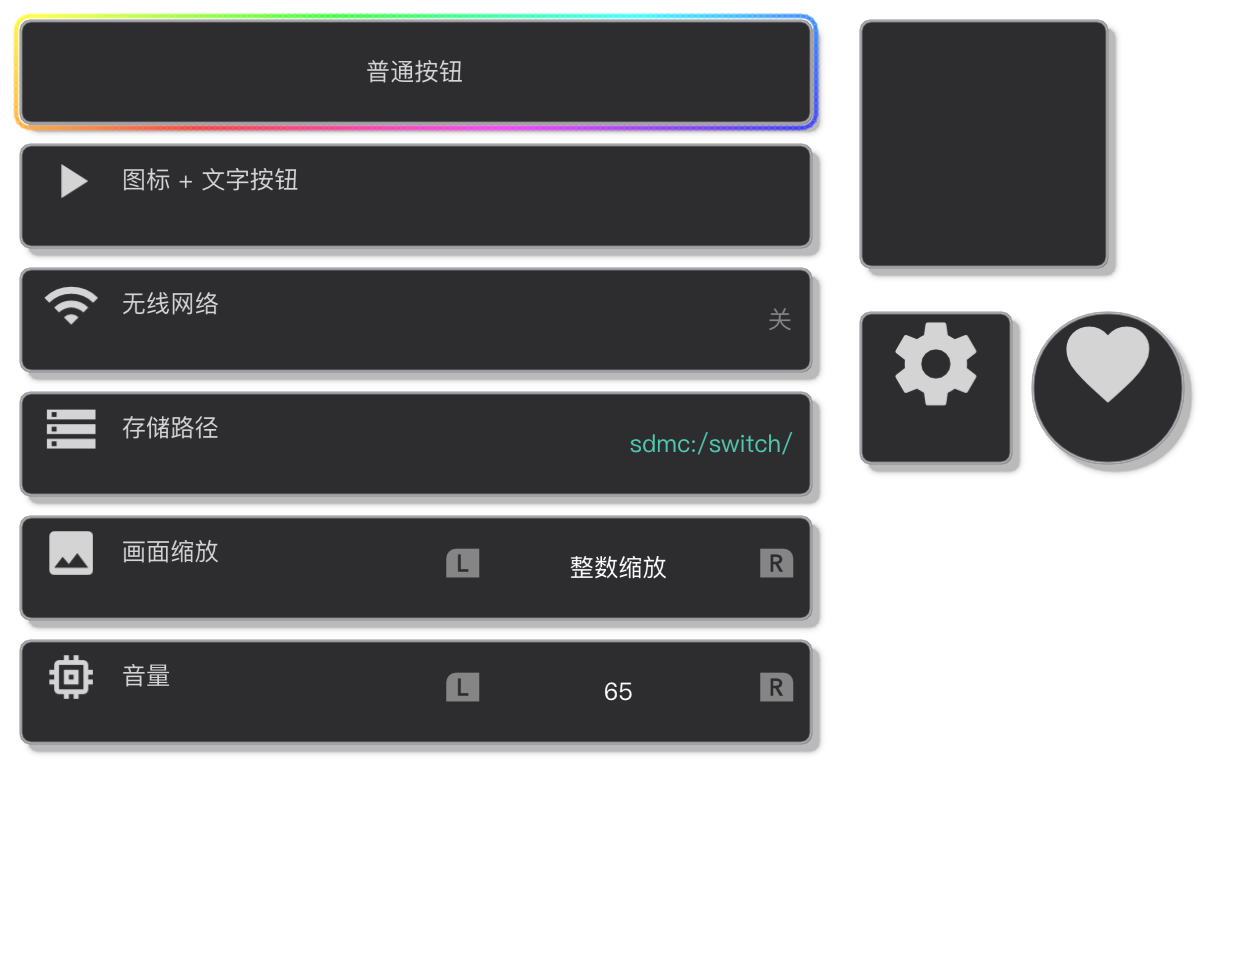
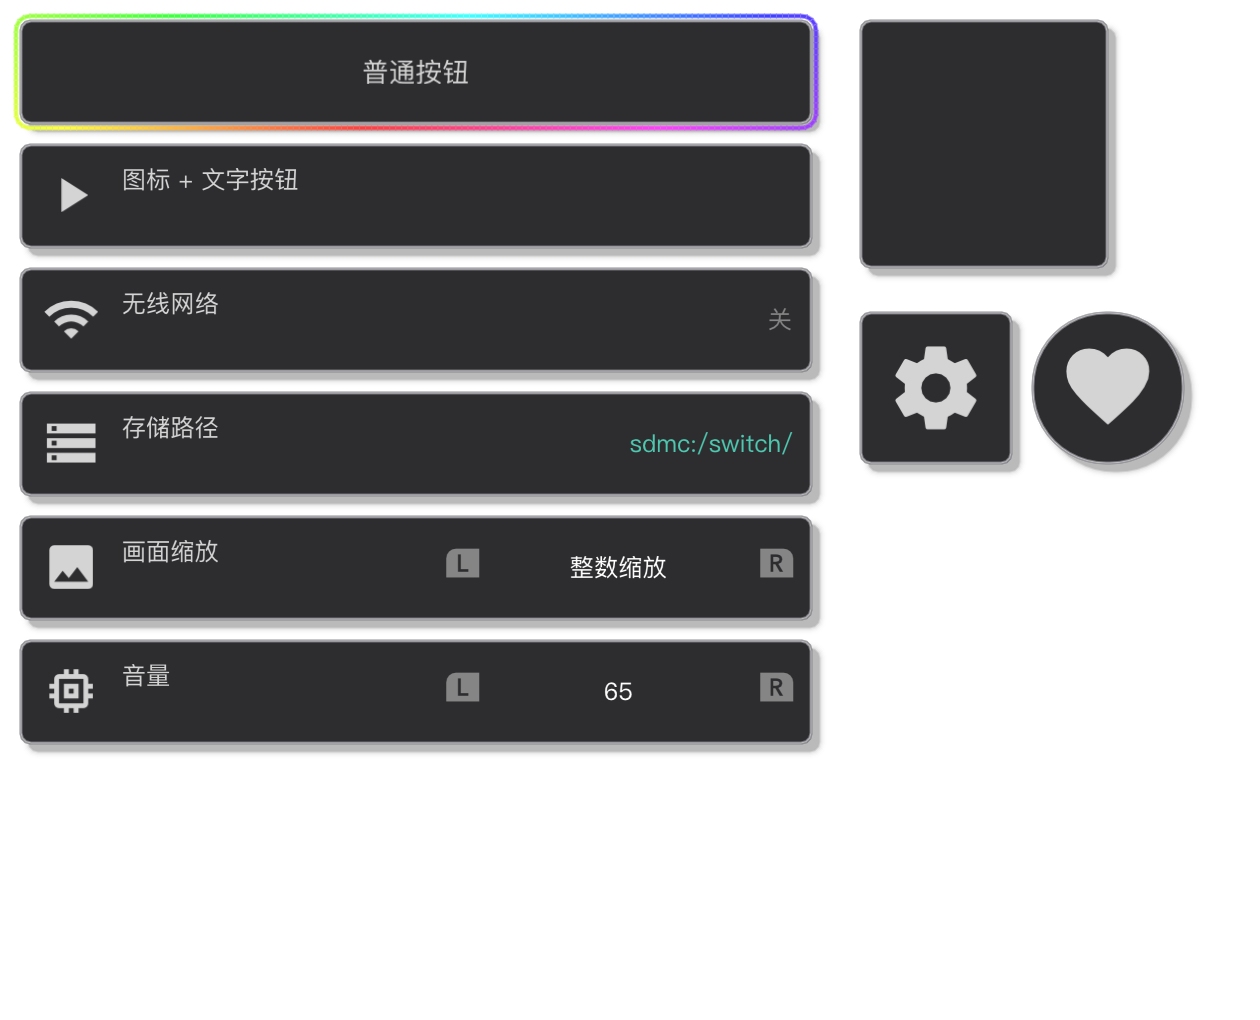
Button 第三轮调整：图标按墨迹居中 / 图标按钮说明行画在外部 / 聚焦放大 1.1 倍
1. 图标居中：行盒下方带 descender 空白，按行盒居中图标看起来偏上。新增
   Draw::GlyphInkExtent()（取字形 Y0/Y1 墨迹上下边界，按 imgui 的 size/baked->Size 缩放），
   图标改成按「看得见的形状」在格子里垂直居中；水平仍然居中。
   实测：无线网络图标墨迹中心 169.5 vs 按钮中心 170（原来偏上约 5px）。
2. IconButton 的说明行不再画在按钮里，改画在按钮外面（CaptionOutside()）：
   默认在按钮下方（caption_gap，默认 4px），下方空间不足就等距放到上方，上下都不够就不显示。
   可用空间 = 画布 ∩ 父节点（CaptionLimit()）。
   实测：按钮在 y=166 时说明行在 245~256.5（按钮底 242 + 4px）；把按钮放到 y=640 时
   说明行在 625.5~636（上方等距）；把 caption_gap 设成 600 时上下都不显示。
3. 所有按钮聚焦时图标和文字（主文字 + 说明行）放大 1.1 倍，跟 focus_mix 平滑过渡
   （ContentScale()）。LR 选择器里的 L/R 图标保持原尺寸，只有间隔里的文字/数字放大，避免整行抖动。
   实测：数值 65 的墨迹 13.0→14.5、图标 21.5→23.5，垂直居中不变（cy 355.2→355.8）。

验证：mac Debug/Release + Switch 均编译通过；ctest 全绿；6 个 demo 退出码 0；快照已更新
（docs/buttons-demo{,-compact}.png，可以看到图标落在按钮中线上、图标按钮的说明行在按钮外面）。

Changed region(s): [[0.0, 0.0, 0.65, 0.7653], [0.681, 0.2449, 0.9595, 0.4898], [0.681, 0.0, 0.8667, 0.0306]]

diff --git a/component_view/components/Button.cpp b/component_view/components/Button.cpp
@@ -156,11 +156,20 @@ bool Button::SubtitleAllowed() const {
     return true;
 }
 
+bool Button::CaptionOutside() const {
+    return false;
+}
+
+float Button::ContentScale() const {
+    // 聚焦时放大 1.1 倍，跟着焦点动画平滑过渡
+    return 1.0f + 0.1f * Clampf(focus_mix, 0.0f, 1.0f);
+}
+
 Button::LeftBlock Button::computeLeftBlock(const Rect& content) const {
     LeftBlock block;
     const bool show_sub = SubtitleVisible();
-    const float main_size = mainFontSize();
-    const float sub_size = subFontSize();
+    const float main_size = MainSize();
+    const float sub_size = SubSize();
     const ImVec2 main_extent = Draw::MeasureText(nullptr, main_size, text.c_str(), 0.0f);
     const ImVec2 sub_extent =
         show_sub ? Draw::MeasureText(nullptr, sub_size, subtitle.c_str(), 0.0f) : ImVec2(0.0f, 0.0f);
@@ -170,19 +179,18 @@ Button::LeftBlock Button::computeLeftBlock(const Rect& content) const {
     const float gap = (icon.empty() || text.empty()) ? 0.0f : icon_gap;
 
     if (text.empty() && !icon.empty()) {
-        // 纯图标：图标在上、说明行在下方居中（竖排）。给说明行留出位置，图标格相应缩小
+        // 纯图标：图标在按钮里居中；说明行（如果有）是画在外面的，不占这里的位置
         const float text_w = show_sub ? sub_extent.x : 0.0f;
         const float text_h = show_sub ? sub_extent.y : 0.0f;
-        const float cell_v = Maxf(4.0f, content.Height() - (show_sub ? text_h + 2.0f : 0.0f));
-        block.vertical = true;
-        block.width = Maxf(cell_v, text_w);
-        const float total_h = cell_v + (show_sub ? text_h + 2.0f : 0.0f);
+        block.vertical = !show_sub;
+        block.width = Maxf(cell, text_w);
+        const float total_h = cell + (show_sub ? text_h + 2.0f : 0.0f);
         const float block_x = (text_align == TextAlign::Center) ? content.Center().x - block.width * 0.5f
                                                                : content.min.x;
         const float block_y = content.Center().y - total_h * 0.5f;
-        block.icon = Rect::FromPosSize(ImVec2(block_x + (block.width - cell_v) * 0.5f, block_y),
-                                      ImVec2(cell_v, cell_v));
-        block.text = Rect::FromPosSize(ImVec2(block_x + (block.width - text_w) * 0.5f, block_y + cell_v + 2.0f),
+        block.icon = Rect::FromPosSize(ImVec2(block_x + (block.width - cell) * 0.5f, block_y),
+                                      ImVec2(cell, cell));
+        block.text = Rect::FromPosSize(ImVec2(block_x + (block.width - text_w) * 0.5f, block_y + cell + 2.0f),
                                       ImVec2(text_w, text_h));
         return block;
     }
@@ -202,16 +210,22 @@ Button::LeftBlock Button::computeLeftBlock(const Rect& content) const {
 }
 
 void Button::drawLeftBlock(ImDrawList* dl, const LeftBlock& block) const {
-    const float main_size = mainFontSize();
-    const float sub_size = subFontSize();
+    const float main_size = MainSize();
+    const float sub_size = SubSize();
     const bool show_sub = SubtitleVisible();
 
     if (!icon.empty() && block.icon.Width() > 0.0f) {
-        const float glyph_size = block.icon.Height() * 0.86f;
+        // 图标大小跟着格子走（额外 0.86 让四周留白看起来均匀），聚焦时再放大 1.1 倍
+        const float glyph_size = block.icon.Height() * 0.86f * ContentScale();
         const ImVec2 extent = Draw::MeasureText(nullptr, glyph_size, icon.c_str(), 0.0f);
-        // 格内水平 + 垂直居中
-        Draw::Text(dl, nullptr, glyph_size,
-                   ImVec2(block.icon.Center().x - extent.x * 0.5f, block.icon.Center().y - extent.y * 0.5f),
+        // 格内水平居中；垂直按「墨迹」居中：行盒下方有 descender 空白，按行盒居中看起来会偏上
+        float y = block.icon.Center().y - extent.y * 0.5f;
+        float ink_top = 0.0f;
+        float ink_bottom = 0.0f;
+        if (Draw::GlyphInkExtent(nullptr, glyph_size, icon.c_str(), ink_top, ink_bottom)) {
+            y = block.icon.Center().y - (ink_top + ink_bottom) * 0.5f;
+        }
+        Draw::Text(dl, nullptr, glyph_size, ImVec2(block.icon.Center().x - extent.x * 0.5f, y),
                    Theme::U32(text_color), icon.c_str());
     }
     if (text.empty() && !show_sub) {
@@ -256,7 +270,8 @@ float Button::lrKeysWidth() const {
 }
 
 void Button::drawLrRow(ImDrawList* dl, const Rect& right_rect, const char* content, ImU32 content_color) const {
-    const float size = mainFontSize();
+    const float size = mainFontSize();       // L/R 图标保持原尺寸，聚焦放大时不会让整行抖动
+    const float content_size = MainSize();   // 间隔里的文字/数字跟着聚焦放大
     const ImVec2 left_extent = Draw::MeasureText(nullptr, size, kLeftKeyGlyph, 0.0f);
     const ImVec2 right_extent = Draw::MeasureText(nullptr, size, kRightKeyGlyph, 0.0f);
     const float total = left_extent.x + kLrGap + ResolvedSlotWidth() + kLrGap + right_extent.x;
@@ -266,7 +281,7 @@ void Button::drawLrRow(ImDrawList* dl, const Rect& right_rect, const char* conte
                kLeftKeyGlyph);
     const Rect slot = Rect::FromPosSize(ImVec2(x + left_extent.x + kLrGap, right_rect.min.y),
                                        ImVec2(ResolvedSlotWidth(), right_rect.Height()));
-    Draw::MarqueeText(dl, nullptr, size, slot, content_color, content, Global::time,
+    Draw::MarqueeText(dl, nullptr, content_size, slot, content_color, content, Global::time,
                       Global::component_style.marquee_speed);
     const float right_x = x + left_extent.x + kLrGap + ResolvedSlotWidth() + kLrGap;
     Draw::Text(dl, nullptr, size, ImVec2(right_x, center_y - right_extent.y * 0.5f), Theme::U32(Theme::kTextMuted),
@@ -277,7 +292,7 @@ ImVec2 Button::MeasureContent(const ImVec2& available) {
     (void)available;
     const Button* self = this;
     LeftBlock block = self->computeLeftBlock(Rect::FromPosSize(ImVec2(0.0f, 0.0f), ImVec2(0.0f, Theme::kControlHeight)));
-    const float height = Maxf(Theme::kControlHeight, subFontSize() + mainFontSize() + 8.0f);
+    const float height = Maxf(Theme::kControlHeight, SubSize() + MainSize() + 8.0f);
     const float width = block.width + (rightSideWidth() > 0.0f ? rightSideWidth() + 16.0f : 0.0f);
     return ImVec2(Maxf(width, 120.0f), height);
 }
@@ -381,6 +396,47 @@ ImVec2 IconButton::MeasureContent(const ImVec2& available) {
     return ImVec2(inner, inner);
 }
 
+// 说明行能落在哪块区域里：画布 ∩ 父节点（没有父节点就用画布）
+Rect IconButton::CaptionLimit() const {
+    Rect limit = Global::CanvasRect();
+    if (parent != nullptr) {
+        const Rect& outer = parent->rect;
+        limit.min.x = Maxf(limit.min.x, outer.min.x);
+        limit.min.y = Maxf(limit.min.y, outer.min.y);
+        limit.max.x = Minf(limit.max.x, outer.max.x);
+        limit.max.y = Minf(limit.max.y, outer.max.y);
+    }
+    return limit;
+}
+
+// 说明行画在按钮外面：默认在下面；下面空间不够就等距放到上面；上下都不够就不画
+void IconButton::drawCaption(ImDrawList* dl) const {
+    if (!show_subtitle || subtitle.empty()) {
+        return;
+    }
+    const float size = SubSize();
+    const ImVec2 extent = Draw::MeasureText(nullptr, size, subtitle.c_str(), 0.0f);
+    const Rect limit = CaptionLimit();
+    const Rect self = DrawRect();
+    const float below = limit.max.y - self.max.y;
+    const float above = self.min.y - limit.min.y;
+    float y = 0.0f;
+    if (below >= extent.y + caption_gap) {
+        y = self.max.y + caption_gap;
+    } else if (above >= extent.y + caption_gap) {
+        y = self.min.y - caption_gap - extent.y;
+    } else {
+        return; // 上下都放不下：不显示提示文字
+    }
+    Draw::Text(dl, nullptr, size, ImVec2(self.Center().x - extent.x * 0.5f, y), Theme::U32(subtitle_color),
+               subtitle.c_str());
+}
+
+void IconButton::OnDrawOverlay(ImDrawList* dl, const Rect& content) {
+    Button::OnDrawOverlay(dl, content); // 流光聚焦框
+    drawCaption(dl);
+}
+
 // --------------------------------------------------------------- 4 开关 ----
 
 ToggleButton::ToggleButton() {
@@ -407,12 +463,12 @@ ToggleButton& ToggleButton::setChecked(bool value, bool notify) {
 
 float ToggleButton::rightSideWidth() const {
     const char* label = checked ? on_text.c_str() : off_text.c_str();
-    return Draw::MeasureText(nullptr, mainFontSize(), label, 0.0f).x;
+    return Draw::MeasureText(nullptr, MainSize(), label, 0.0f).x;
 }
 
 void ToggleButton::drawRightSide(ImDrawList* dl, const Rect& right_rect) {
     const char* label = checked ? on_text.c_str() : off_text.c_str();
-    const float size = mainFontSize();
+    const float size = MainSize();
     const ImVec2 extent = Draw::MeasureText(nullptr, size, label, 0.0f);
     Draw::Text(dl, nullptr, size,
                ImVec2(right_rect.max.x - extent.x, right_rect.Center().y - extent.y * 0.5f),
@@ -450,11 +506,11 @@ CustomButton& CustomButton::setRightText(std::string value, ImVec4 color) {
 }
 
 float CustomButton::rightSideWidth() const {
-    return Draw::MeasureText(nullptr, mainFontSize(), right_text.c_str(), 0.0f).x;
+    return Draw::MeasureText(nullptr, MainSize(), right_text.c_str(), 0.0f).x;
 }
 
 void CustomButton::drawRightSide(ImDrawList* dl, const Rect& right_rect) {
-    const float size = mainFontSize();
+    const float size = MainSize();
     const ImVec2 extent = Draw::MeasureText(nullptr, size, right_text.c_str(), 0.0f);
     Draw::Text(dl, nullptr, size,
                ImVec2(right_rect.max.x - extent.x, right_rect.Center().y - extent.y * 0.5f), Theme::U32(right_color),

diff --git a/component_view/components/Button.h b/component_view/components/Button.h
@@ -100,11 +100,16 @@ protected:
 
     float mainFontSize() const { return font_size > 0.0f ? font_size : Theme::kFontBody; }
     float subFontSize() const { return subtitle_size > 0.0f ? subtitle_size : Theme::kFontSmall; }
+    // 聚焦时图标和文字（主文字 + 说明行）放大 1.1 倍，跟 focus_mix 平滑过渡
+    float ContentScale() const;
+    float MainSize() const { return mainFontSize() * ContentScale(); }
+    float SubSize() const { return subFontSize() * ContentScale(); }
     float ResolvedFocusMargin() const;
     float ResolvedFocusWidth() const;
     float ResolvedSlotWidth() const;                  // LR 选择器中间那一格的宽度
     virtual bool SubtitleAllowed() const;             // TextButton 返回 false（不带说明行）
-    bool SubtitleVisible() const { return show_subtitle && SubtitleAllowed(); }
+    virtual bool CaptionOutside() const;              // IconButton：说明行画在控件外面
+    bool SubtitleVisible() const { return show_subtitle && SubtitleAllowed() && !CaptionOutside(); }
 
     // 左侧「图标 + 文字」块：
     //   有主文字 = 图标（正方形格，格内水平+垂直居中）+ 文字紧跟其右
@@ -142,6 +147,7 @@ public:
 
 // ------------------------------------------------------------------ 3 纯图标 --
 // 只有两种形态：圆角正方形 / 圆形。边长用 setSide()（默认 52，按 720p 手持尺寸）。
+// 说明行不在按钮里画，而是画在按钮外面：默认在下面，下面空间不够就等距放到上面，都不够就不画。
 class IconButton : public Button {
 public:
     IconButton();
@@ -149,12 +155,17 @@ public:
 
     IconButtonShape shape = IconButtonShape::RoundedSquare;
     float side = 52.0f;
+    float caption_gap = 4.0f; // 说明行与按钮之间的间距
 
     IconButton& setShape(IconButtonShape value);
     IconButton& setSide(float value); // 正方形/圆形的边长
 
 protected:
     ImVec2 MeasureContent(const ImVec2& available) override;
+    void OnDrawOverlay(ImDrawList* dl, const Rect& content) override;
+    bool CaptionOutside() const override { return true; }
+    Rect CaptionLimit() const;      // 可用空间：画布 ∩ 父节点
+    void drawCaption(ImDrawList* dl) const;
 };
 
 // ------------------------------------------------------------------- 4 开关 ---

diff --git a/component_view/Draw.cpp b/component_view/Draw.cpp
@@ -133,6 +133,36 @@ ImVec2 MeasureText(ImFont* font, float font_size, const char* text, float wrap_w
     return use->CalcTextSizeA(size, FLT_MAX, wrap_width, text);
 }
 
+bool GlyphInkExtent(ImFont* font, float font_size, const char* utf8_glyph, float& ink_top, float& ink_bottom) {
+    ImFont* use = font != nullptr ? font : CurrentFont();
+    if (use == nullptr || utf8_glyph == nullptr || utf8_glyph[0] == '\0' || font_size <= 0.0f) {
+        return false;
+    }
+    // 只取第一个码位（图标都是一个字形）
+    const unsigned char* p = reinterpret_cast<const unsigned char*>(utf8_glyph);
+    unsigned int codepoint = p[0];
+    if (codepoint >= 0xF0) {
+        codepoint = ((p[0] & 0x07u) << 18) | ((p[1] & 0x3Fu) << 12) | ((p[2] & 0x3Fu) << 6) | (p[3] & 0x3Fu);
+    } else if (codepoint >= 0xE0) {
+        codepoint = ((p[0] & 0x0Fu) << 12) | ((p[1] & 0x3Fu) << 6) | (p[2] & 0x3Fu);
+    } else if (codepoint >= 0xC0) {
+        codepoint = ((p[0] & 0x1Fu) << 6) | (p[1] & 0x3Fu);
+    }
+    ImFontBaked* baked = use->GetFontBaked(font_size);
+    if (baked == nullptr || baked->Size <= 0.0f) {
+        return false;
+    }
+    ImFontGlyph* glyph = baked->FindGlyphNoFallback(static_cast<ImWchar>(codepoint));
+    if (glyph == nullptr) {
+        return false;
+    }
+    // imgui 渲染时就是用 size / baked->Size 把字形度量缩放到目标字号
+    const float scale = font_size / baked->Size;
+    ink_top = glyph->Y0 * scale;
+    ink_bottom = glyph->Y1 * scale;
+    return true;
+}
+
 void Text(ImDrawList* dl, ImFont* font, float font_size, const ImVec2& pos, ImU32 color, const char* text,
           float wrap_width) {
     if (dl == nullptr || text == nullptr || text[0] == '\0') {

diff --git a/component_view/Draw.h b/component_view/Draw.h
@@ -19,6 +19,10 @@ void SoftShadow(ImDrawList* dl, const Rect& r, const ShadowStyle& style, float t
 
 // 文本尺寸测量（font 为 nullptr 时用当前字体）
 ImVec2 MeasureText(ImFont* font, float font_size, const char* text, float wrap_width = 0.0f);
+// 单个字形（图标通常就是一个码位）的「墨迹」上下边界，相对行盒顶的偏移（已是 font_size 尺度）。
+// 用途：图标要按看得见的形状居中 —— 行盒下方带 descender 空白，按行盒居中会显得偏上。
+// 返回 false 表示取不到字形（回退到按行盒居中）。
+bool GlyphInkExtent(ImFont* font, float font_size, const char* utf8_glyph, float& ink_top, float& ink_bottom);
 // 文本绘制（返回绘制后的右下角）
 void Text(ImDrawList* dl, ImFont* font, float font_size, const ImVec2& pos, ImU32 color, const char* text,
           float wrap_width = 0.0f);

diff --git a/README.md b/README.md
@@ -192,18 +192,25 @@ void OnBuild() override {
 |---|---|---|---|---|
 | 1 | `TextButton` | `("文字")` | 文字水平居中，**不带说明行**（弹窗的确认/取消这类提示文字） | — |
 | 2 | `IconTextButton` | `(icon, "文字")` | 图标占左侧正方形格（格内水平+垂直居中）+ 文字紧跟其右 | — |
-| 3 | `IconButton` | `(icon)` | 只有图标，两种形态：`setShape(RoundedSquare/Circle)` + `setSide(px)` | — |
+| 3 | `IconButton` | `(icon)` | 只有图标，两种形态：`setShape(RoundedSquare/Circle)` + `setSide(px)`；说明行画在按钮外面 | — |
 | 4 | `ToggleButton` | `(icon, "文字")` | 图标 + 文字 | 开 / 关（开=蓝、关=灰），A/点击切换，`toggled(bool)` |
 | 5 | `CustomButton` | `(icon, "文字")` | 图标 + 文字 | 自定义文字：`setRightText(text, color)` |
 | 6 | `OptionButton` | `(icon, "文字")` | 图标 + 文字 | `[L] 选项 [R]`：固定间隔、居中、超长滚动；`setOptions({...})`，L/R 切换，`selectionChanged(int)` |
 | 7 | `ValueButton` | `(icon, "文字")` | 图标 + 文字 | `[L] 数值 [R]`：同上；`setup(初值, 最小, 最大, 步长, 小数位)`，L/R 调值，`valueChanged(float)` |
 
 说明行（subtitle）除 `TextButton` 外都支持：`setSubtitle("小字", true)` / `showSubtitle(false)`。
-有主文字时主文字在上、说明行在下，两块整体垂直居中，`text_align` 决定水平位置；**纯图标**时
-说明行落到图标下方居中（图标格自动给说明行让位）。开关说明行都不会让文字上下跳。
+有主文字时主文字在上、说明行在下，两块整体垂直居中，`text_align` 决定水平位置。开关说明行都不会让文字上下跳。
+
+**图标一律按「墨迹」居中**（`Draw::GlyphInkExtent` 取字形的可见上下边界）：行盒下方带 descender
+空白，按行盒居中图标会看起来偏上；按墨迹居中后图标正落在按钮的竖直中线上。
+
+**聚焦时图标和文字（主文字 + 说明行）放大 1.1 倍**，跟 `focus_mix` 平滑过渡（`ContentScale()`）。
+LR 选择器里的 L/R 图标保持原尺寸，只有间隔里的文字/数字放大，这样整行不会抖。
 
 `IconButton` 只有**圆角正方形**和**圆形**两种形态（圆形时圆角 = 边长的一半），宽度等于边长，
-不再是通栏按钮。
+不再是通栏按钮。它的说明行**不在按钮里画，而是画在按钮外面**（`setSubtitle` 的开关照样有效）：
+默认在按钮下方，下方空间不足就等距放到上方，上下都不够就直接不显示。
+可用空间 = 画布 ∩ 父节点（`CaptionLimit()`），间距用 `caption_gap`（默认 4px）。
 
 `OptionButton` / `ValueButton` 的右侧是 `[L] <固定间隔> [R]`：间隔宽度固定（默认 120px），
 文字/数字在间隔里居中；**放不下就在间隔里横向循环滚动**（跑马灯，超出部分按间隔裁掉）。
@@ -785,6 +792,12 @@ git -C third_party/imgui fetch --tags     # 升级 imgui 用
   脚本化验收：短按 R 三次 → `70/75/80` 三次信号（每次松开一次）；长按 90 帧 → `90` **一次**信号；
   长按 L 90 帧 → `40`；Q 切到超长选项后抓两帧对比，间隔内文字整体左移（3428/14520 像素变化），
   间隔外无污染（裁剪正确）；图标/说明行的墨迹中心 477.2 vs 按钮中心 478（居中）。
+- 已确认（Button 第三轮调整）：① 图标改成按「墨迹」居中（行盒下方有 descender 空白，按行盒居中会偏上）——
+  实测 `无线网络` 图标墨迹中心 169.5 vs 按钮中心 170；② `IconButton` 的说明行改到按钮外面：默认下方
+  （间距 4px），下方不够就等距放上方（把按钮放到 y=640 时实测说明行在 625.5~636），上下都不够就不显示
+  （`caption_gap=600` 时无任何说明文字）；③ 聚焦时图标和文字（主文字 + 说明行）放大 1.1 倍且跟
+  `focus_mix` 平滑过渡——实测数值 `65` 的墨迹 13.0→14.5、图标 21.5→23.5，居中不变（cy 355.2→355.8）。
+  快照：`docs/buttons-demo{,-compact}.png`。
 - 顺带修掉一个框架输入 bug（长按功能的前提）：`PadState::held` 原来是"每帧清零"，SDL 只在按下那一刻
   发一次 KEYDOWN，所以按住不放时 `held` 只有第一帧为真、`Held()` 根本没法用（`Input.h` 注释里
   写的是电平语义）。现在后端把上一帧的按住状态继承下来再叠加本帧事件，`held` 变回真正的电平；
